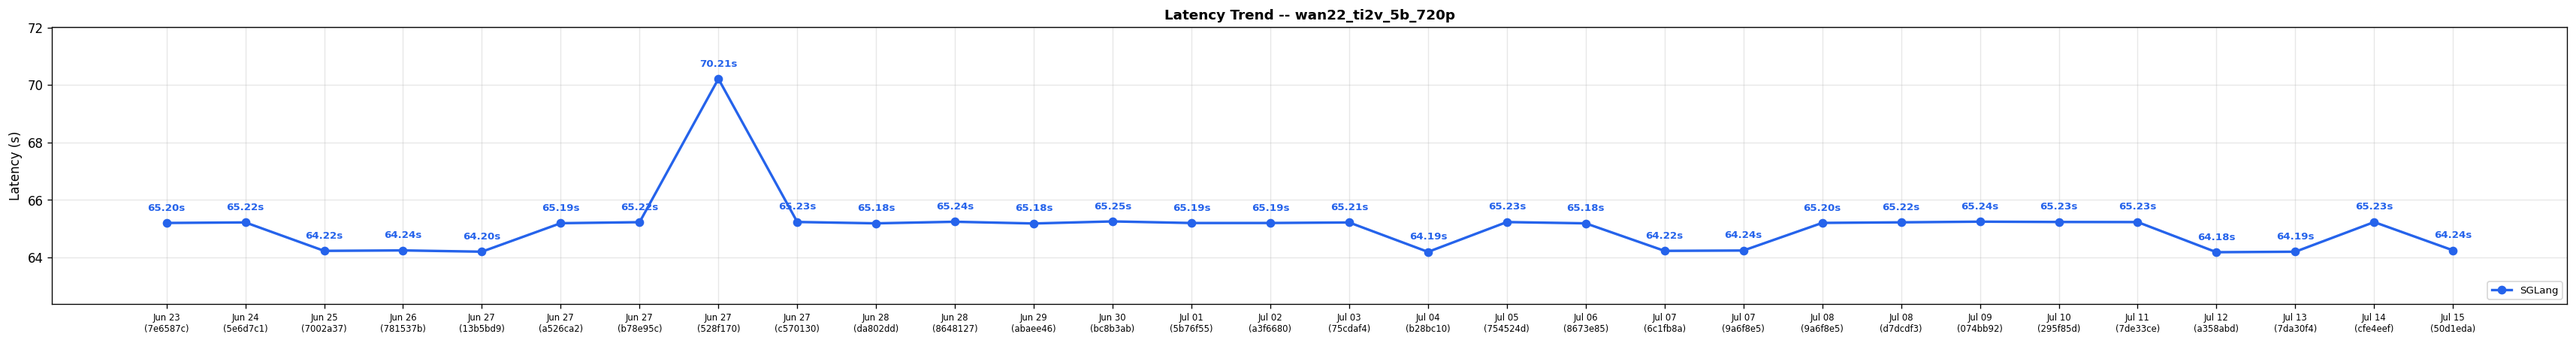
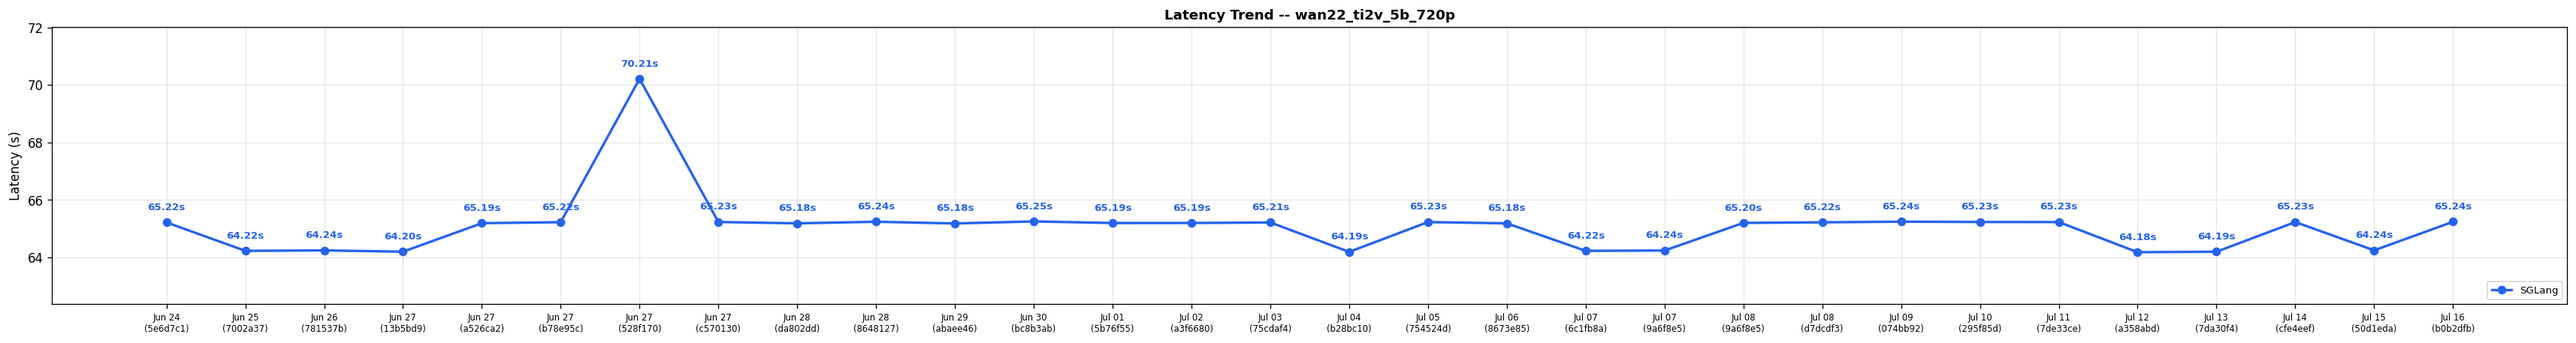
Diffusion comparison results for run 29462125107 (#718)

diff --git a/diffusion-comparisons/dashboard.md b/diffusion-comparisons/dashboard.md
@@ -1,22 +1,29 @@
 # SGLang-Diffusion Nightly Performance Dashboard
 
-*Generated: Jul 15 | Commit: `50d1eda`*
+*Generated: Jul 16 | Commit: `b0b2dfb`*
+
+> [!WARNING]
+> **Performance Regression Detected**
+>
+> - **qwen_image_2512_t2i_1024** (sglang): 8.82s -> 10.80s (+22.4%)
+> - **ltx2.3_twostage_ti2v_2gpus** (sglang): 13.06s -> 16.06s (+23.0%)
+
 
 ## SGLang-Diffusion Performance
 
 | Model | Risk | sglang (s) |
 |-------|------|---------|
-| FLUX.1-dev | ✅ | **4.83** |
-| FLUX.2-dev | ✅ | **14.32** |
-| Qwen-Image-2512 | ✅ | **8.82** |
-| Qwen-Image-Edit-2511 | ✅ | **15.32** |
-| Z-Image-Turbo | ✅ | **0.82** |
-| Wan2.2-T2V-A14B-Diffusers | ✅ | **209.74** |
-| Wan2.2-TI2V-5B-Diffusers | ✅ | **64.24** |
-| LTX-2.3 | ✅ | **13.06** |
-| ideogram-4-fp8 | ✅ | **5.44** |
-| Cosmos3-Super | ✅ | **114.33** |
-| Wan2.2-I2V-A14B-Diffusers | ✅ | **203.70** |
+| FLUX.1-dev | ✅ | **4.87** |
+| FLUX.2-dev | ✅ | **14.41** |
+| Qwen-Image-2512 | ⚠ | **10.80** |
+| Qwen-Image-Edit-2511 | ✅ | **15.41** |
+| Z-Image-Turbo | ✅ | **0.83** |
+| Wan2.2-T2V-A14B-Diffusers | ✅ | **210.62** |
+| Wan2.2-TI2V-5B-Diffusers | ✅ | **65.24** |
+| LTX-2.3 | ⚠ | **16.06** |
+| ideogram-4-fp8 | ✅ | **5.35** |
+| Cosmos3-Super | ✅ | **115.35** |
+| Wan2.2-I2V-A14B-Diffusers | ✅ | **204.68** |
 
 ### Latency Trend: flux1_dev_t2i_1024
 
@@ -77,6 +84,7 @@
 
 | Date | Commit | flux1_dev_t2i_1024 (s) | flux2_dev_t2i_1024 (s) | qwen_image_2512_t2i_1024 (s) | qwen_image_edit_2511 (s) | zimage_turbo_t2i_1024 (s) | wan22_t2v_a14b_720p (s) | wan22_ti2v_5b_720p (s) | ltx2.3_twostage_ti2v_2gpus (s) | ideogram4_fp8_t2i_2gpu (s) | cosmos3_super_t2v_2gpu (s) | wan22_i2v_a14b_720p (s) | Trend |
 |------|--------|---------|---------|---------|---------|---------|---------|---------|---------|---------|---------|---------|-------|
+| Jul 16 | `b0b2dfb` | 4.87 | 14.41 | 10.80 | 15.41 | 0.83 | 210.62 | 65.24 | 16.06 | 5.35 | 115.35 | 204.68 | :left_right_arrow:  :left_right_arrow:  :arrow_up:  :left_right_arrow:  :left_right_arrow:  :left_right_arrow:  :left_right_arrow:  :arrow_up:  :left_right_arrow:  :left_right_arrow:  :left_right_arrow: |
 | Jul 15 | `50d1eda` | 4.83 | 14.32 | 8.82 | 15.32 | 0.82 | 209.74 | 64.24 | 13.06 | 5.44 | 114.33 | 203.70 | :left_right_arrow:  :left_right_arrow:  :arrow_down:  :left_right_arrow:  :arrow_down:  :left_right_arrow:  :left_right_arrow:  :arrow_down:  :left_right_arrow:  :left_right_arrow:  :left_right_arrow: |
 | Jul 14 | `cfe4eef` | 4.87 | 14.47 | 10.73 | 15.40 | 0.84 | 210.71 | 65.23 | 17.08 | 5.36 | 115.38 | 204.63 | :left_right_arrow:  :left_right_arrow:  :arrow_up:  :left_right_arrow:  :arrow_up:  :left_right_arrow:  :left_right_arrow:  :arrow_up:  :left_right_arrow:  :left_right_arrow:  :left_right_arrow: |
 | Jul 13 | `7da30f4` | 4.83 | 14.38 | 8.77 | 15.27 | 0.81 | 209.59 | 64.19 | 13.05 | 5.31 | 115.36 | 204.64 | :left_right_arrow:  :left_right_arrow:  :left_right_arrow:  :left_right_arrow:  :left_right_arrow:  :left_right_arrow:  :left_right_arrow:  :left_right_arrow:  :left_right_arrow:  :left_right_arrow:  :left_right_arrow: |
@@ -105,8 +113,15 @@
 | Jun 27 | `13b5bd9` | 4.68 | 14.31 | 12.79 | 23.65 | 0.65 | 209.32 | 64.20 | 15.05 | N/A | N/A | N/A | :left_right_arrow:  :arrow_down:  :left_right_arrow:  :left_right_arrow:  :arrow_down:  :left_right_arrow:  :left_right_arrow:  :arrow_up:    |
 | Jun 26 | `781537b` | 4.63 | 15.76 | 12.69 | 23.60 | 0.82 | 208.96 | 64.24 | 14.05 | N/A | N/A | 205.62 | :left_right_arrow:  :arrow_up:  :left_right_arrow:  :left_right_arrow:  :arrow_up:  :left_right_arrow:  :left_right_arrow:  :arrow_down:    :left_right_arrow: |
 | Jun 25 | `7002a37` | 4.68 | 14.32 | 12.75 | 23.62 | 0.66 | 209.34 | 64.22 | 15.06 | N/A | N/A | 204.64 | :left_right_arrow:  :left_right_arrow:  :left_right_arrow:  :left_right_arrow:  :arrow_up:  :left_right_arrow:  :left_right_arrow:  :arrow_up:    :left_right_arrow: |
-| Jun 24 | `5e6d7c1` | 4.68 | 14.36 | 12.82 | 23.75 | 0.64 | 209.73 | 65.22 | 14.06 | N/A | N/A | 205.65 | :left_right_arrow:  :left_right_arrow:  :left_right_arrow:  :left_right_arrow:  :left_right_arrow:  :left_right_arrow:  :left_right_arrow:  :left_right_arrow:    :left_right_arrow: |
-| Jun 23 | `7e6587c` | 4.68 | 14.35 | 12.84 | 23.79 | 0.64 | 209.91 | 65.20 | 14.05 | N/A | N/A | 205.65 | -- |
+| Jun 24 | `5e6d7c1` | 4.68 | 14.36 | 12.82 | 23.75 | 0.64 | 209.73 | 65.22 | 14.06 | N/A | N/A | 205.65 | -- |
+
+> [!CAUTION]
+> **Action Required — Performance Alert**
+>
+> The following cases need attention:
+> - qwen_image_2512_t2i_1024: SGLang regression +14.4% vs 3-run avg (10.80s vs 9.44s)
+> - ltx2.3_twostage_ti2v_2gpus: SGLang regression +11.6% vs 3-run avg (16.06s vs 14.40s)
+
 
 ---
 *Generated by `generate_diffusion_dashboard.py` in SGLang nightly CI.*
